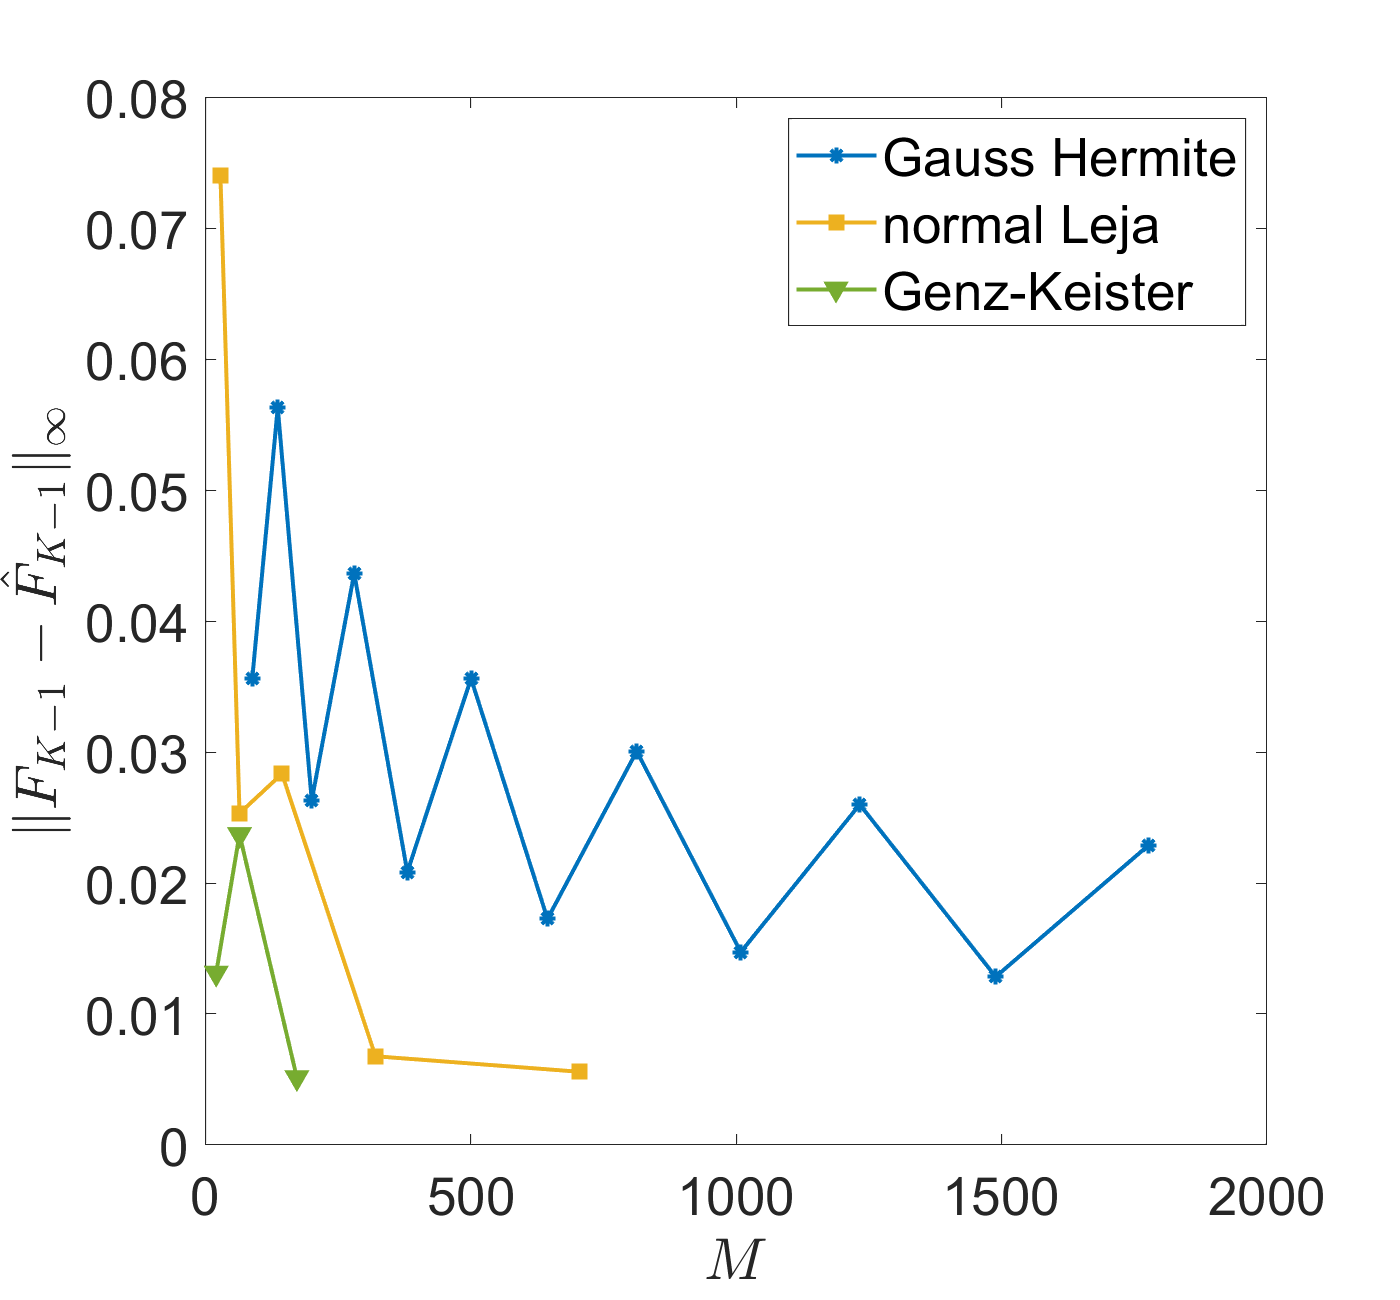
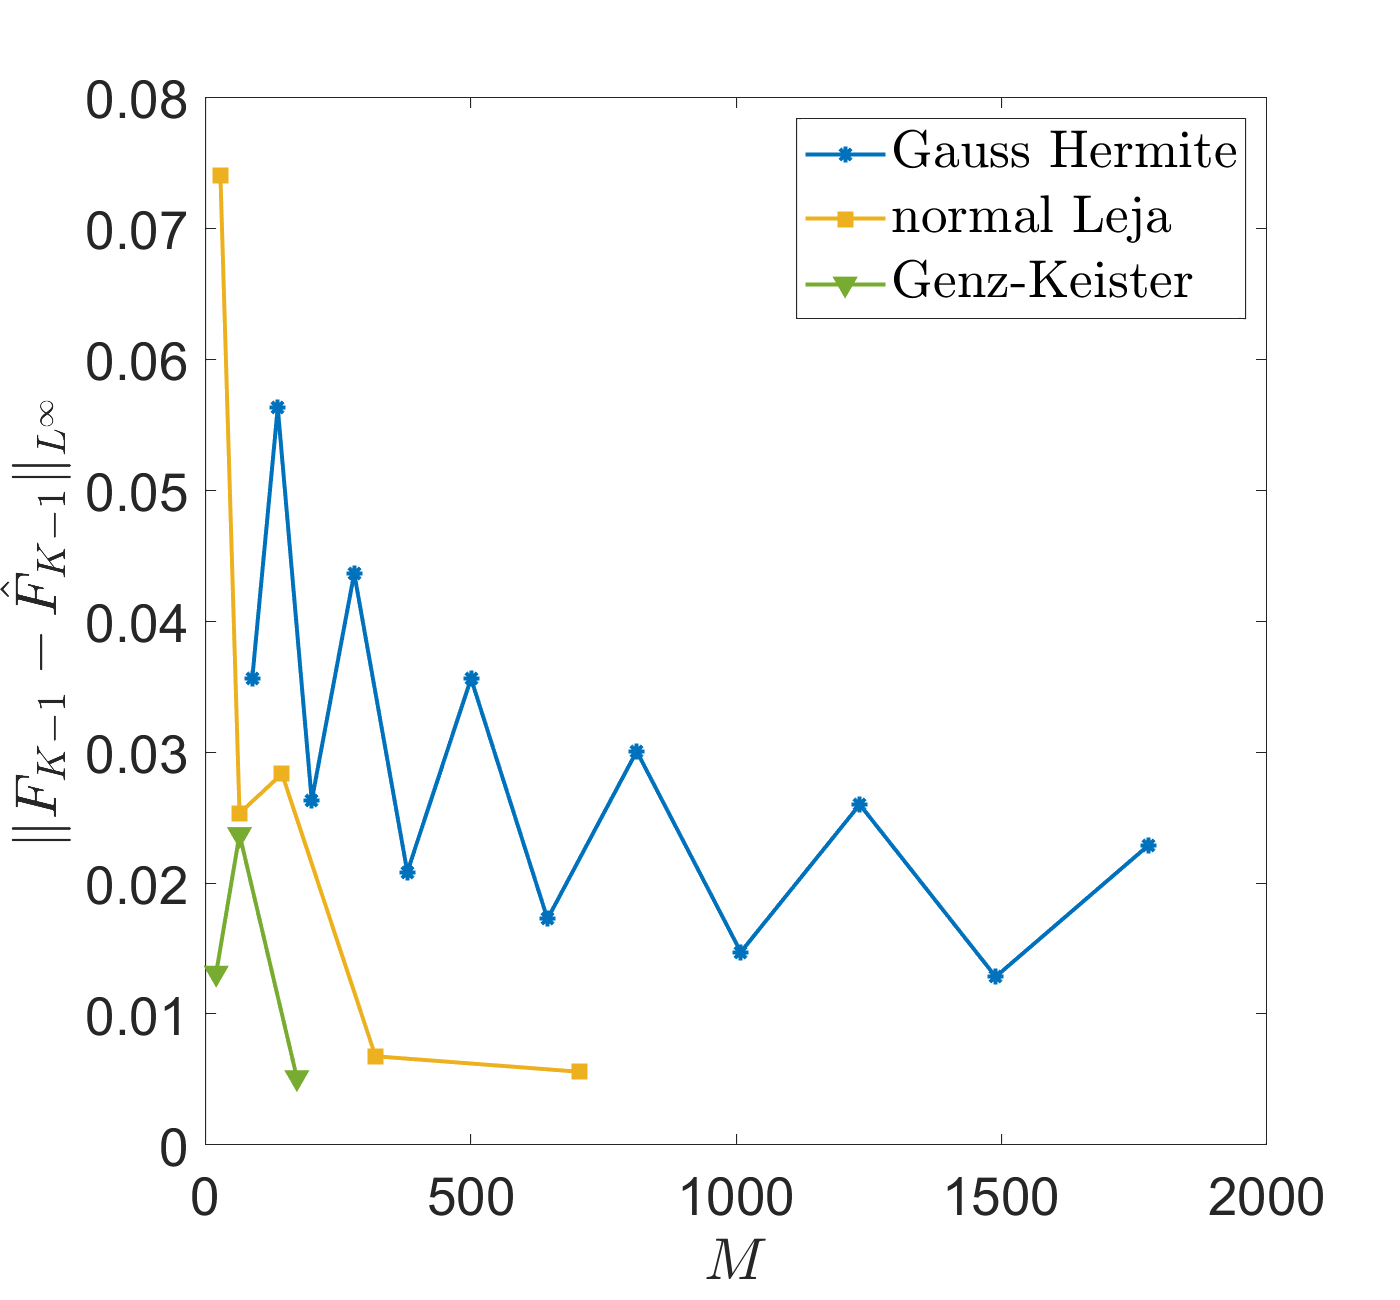
Add files via upload

Changed region(s): [[0.5529, 0.0923, 0.8907, 0.2462], [0.0, 0.3077, 0.0614, 0.4615], [0.0, 0.5231, 0.0614, 0.6462]]

diff --git a/figures/fig_sg_quad_2.m b/figures/fig_sg_quad_2.m
@@ -17,7 +17,7 @@ N_Q = [89   137   201   281   381   501   645   813   1009 ...
     1233   1489   1777];
 err2_Q = abs(V2_Q - ref(1))./ref(1);
 
-plot(N_Q, err2_Q,'DisplayName','Gauss Hermite, L^{interp} = 6',...
+plot(N_Q, err2_Q,'DisplayName','Gauss Hermite, L_I = 6',...
     'Color',colors{1}, 'Marker' ,markers{1},'markersize',ms,'MarkerFaceColor',colors{1},'MarkerEdgeColor',colors{1},'LineWidth',lw);
 xla = xlabel('$M$');
 set(xla,'Interpreter','latex');
@@ -32,7 +32,7 @@ V2_Q_i7 = [3.183578058863261   3.183065670172444   3.183869276533816...
 err2_Q_i7 = abs(V2_Q_i7 - ref(1))./ref(1);
 N_Q_i7 = [89   137   201   281   381   501   645   813   1009 ...
     1233   1489   1777];
-hold on; plot(N_Q_i7, err2_Q_i7,'DisplayName','Gauss Hermite, L^{interp} = 7',...
+hold on; plot(N_Q_i7, err2_Q_i7,'DisplayName','Gauss Hermite, L_I = 7',...
     'Color',colors{2}, 'Marker' ,markers{2},'markersize',ms,'MarkerFaceColor',colors{2},'MarkerEdgeColor',colors{2},'LineWidth',lw);
 
 %% quadrature convergence Leja
@@ -43,7 +43,7 @@ V2_leja = [3.176171640203659   3.181310682108717   3.181128592517177...
 N_Q_leja = [29    65   145   321   705];
 
 err2_leja = abs(V2_leja - ref(1))./ref(1);
-hold on; plot(N_Q_leja, err2_leja,'DisplayName','normal Leja, L^{interp} = 6',...
+hold on; plot(N_Q_leja, err2_leja,'DisplayName','normal Leja, L_I = 6',...
     'Color',colors{3}, 'Marker' ,markers{3},'markersize',ms,'MarkerFaceColor',colors{3},'MarkerEdgeColor',colors{3},'LineWidth',lw);
 
 % MaxDepth = 7;
@@ -52,7 +52,7 @@ V2_leja_i7 = [3.181890150281967   3.181462592589240   3.181294312739215 ...
 N_Q_leja_i7 = [29    65   145   321   705];
 
 err2_leja_i7 = abs(V2_leja_i7 - ref(1))./ref(1);
-hold on; plot(N_Q_leja_i7, err2_leja_i7,'DisplayName','normal Leja, L^{interp} = 7',...
+hold on; plot(N_Q_leja_i7, err2_leja_i7,'DisplayName','normal Leja, L_I = 7',...
     'Color',colors{4}, 'Marker' ,markers{4},'markersize',ms,'MarkerFaceColor',colors{4},'MarkerEdgeColor',colors{4},'LineWidth',lw);
 
 %% quadrature convergence GK
@@ -60,18 +60,23 @@ hold on; plot(N_Q_leja_i7, err2_leja_i7,'DisplayName','normal Leja, L^{interp} =
 V2_GK = [3.183642009824087   3.182175081482277   3.183899095187631];
 N_Q_GK = [21    65   173];
 err2_GK = abs(V2_GK - ref(1))./ref(1);
-hold on; plot(N_Q_GK, err2_GK,'DisplayName','Genz-Keister, L^{interp} = 6',...
+hold on; plot(N_Q_GK, err2_GK,'DisplayName','Genz-Keister, L_I = 6',...
     'Color',colors{5}, 'Marker' ,markers{5},'markersize',ms,'MarkerFaceColor',colors{5},'MarkerEdgeColor',colors{5},'LineWidth',lw);
-legend;
 
 % MaxDepth = 7;
 V2_GK_i7 = [3.181722588270920   3.181729395153899   3.183145582488626];
 N_Q_GK = [21    65   173];
 err2_GK_i7 = abs(V2_GK_i7 - ref(1))./ref(1);
-hold on; plot(N_Q_GK, err2_GK_i7, 'DisplayName','Genz-Keister, L^{interp} = 7',...
+hold on; plot(N_Q_GK, err2_GK_i7, 'DisplayName','Genz-Keister, L_I = 7',...
     'Color',colors{6}, 'Marker' ,markers{6},'markersize',ms,'MarkerFaceColor',colors{6},'MarkerEdgeColor',colors{6},'LineWidth',lw);
 legend('FontSize',20);
 box on;
 ax = gca;  ax.FontSize = 20; 
+
+leg1 = legend('Gauss Hermite, $L_I = 6$','Gauss Hermite, $L_I = 7$',...
+    'normal Leja, $L_I = 6$', 'normal Leja, $L_I = 7$', ...
+    'Genz-Keister, $L_I = 6$', 'Genz-Keister, $L_I = 7$');
+set(leg1,'Interpreter','latex');
+set(leg1,'FontSize',20);
 
 set(h, 'Position', [100 100 700 650]);

diff --git a/figures/fig_pts_interp_quad.m b/figures/fig_pts_interp_quad.m
@@ -67,7 +67,13 @@ scatter(zqknots_mat(1,:), zqknots_mat(2,:), [],colors{6},'.','DisplayName','quad
 hold on;
 scatter(zknots_in(1,:), zknots_in(2,:),[],'k',"filled",'DisplayName','interpolation');
 legend('Fontsize', 20);
-xlabel('z_1','FontSize', 20); ylabel('z_2','FontSize', 20);
+xla = xlabel('$z_1$');
+set(xla,'Interpreter','latex');
+set(xla,'FontSize',20);
+yla = ylabel('$z_2$');
+set(yla,'Interpreter','latex');
+set(yla,'FontSize',20);
+
 box on;
 ax = gca;  ax.FontSize = 20; 
 
@@ -76,7 +82,12 @@ scatter(Sqknots_mat(1,:), Sqknots_mat(2,:), [],colors{6},'.','DisplayName','quad
 hold on;
 scatter(Sknots_in(1,:), Sknots_in(2,:),[],'k',"filled",'DisplayName','interpolation');
 legend('Fontsize', 20);
-xlabel('S_1', 'FontSize', 20); ylabel('S_2', 'FontSize',20);
+xla = xlabel('$S_1$');
+set(xla,'Interpreter','latex');
+set(xla,'FontSize',20);
+yla = ylabel('$S_2$');
+set(yla,'Interpreter','latex');
+set(yla,'FontSize',20);
 box on;
 ax = gca;  ax.FontSize = 20; 
 

diff --git a/figures/fig_K.m b/figures/fig_K.m
@@ -18,17 +18,23 @@ h3 = figure(3);
 plot(10:5:105, err_i8,'DisplayName','L=2',...
      'Color',colors{1}, 'Marker' ,markers{1},'markersize',ms,'MarkerFaceColor',colors{1},'MarkerEdgeColor',colors{1},'LineWidth',lw);
 
-xlabel('K','FontSize',20);
+xla = xlabel('$K$');
+set(xla,'Interpreter','latex');
+set(xla,'FontSize',20);
 ylabel('relative error','FontSize',20);
-legend('FontSize',20);
+
 box on;
 ax = gca;  ax.FontSize = 20; 
 
 set(gca, 'YScale', 'log');
 set(gca, 'XScale', 'log');
-set(h3, 'Position', [100 100 700 650]);
 
 xref = 10.^(1:.1:2);
 yref = xref.^(-1)*exp(-4);
 hold on; plot(xref, yref, '--k', 'DisplayName','slope = -1');
 
+leg1 = legend('$L_I = 8, \beta = 1, L=2$','slope = -1');
+set(leg1,'Interpreter','latex');
+set(leg1,'FontSize',20);
+
+set(h3, 'Position', [100 100 700 650]);

diff --git a/figures/fig_rqmc_preint.m b/figures/fig_rqmc_preint.m
@@ -66,8 +66,17 @@ hold on;
 plot(log2(M(1:end)), rmse_rel_preint(1:end), 'DisplayName','RQMC with preintegration',...
      'Color',colors{2}, 'Marker' ,markers{2},'markersize',ms,'MarkerFaceColor',colors{2},'MarkerEdgeColor',colors{2},'LineWidth',lw);
 set(gca, 'YScale', 'log');
-xlabel('log2(M)','FontSize',20); ylabel('RMSE','FontSize',20);
-legend('FontSize',20);
+
+xla = xlabel('$\log_2(M)$');
+set(xla,'Interpreter','latex');
+set(xla,'FontSize',20);
+yla = ylabel('RMSE');
+set(yla,'Interpreter','latex');
+set(yla,'FontSize',20);
+
+leg1 = legend('RQMC','RQMC with preintegration');
+set(leg1,'Interpreter','latex');
+set(leg1,'FontSize',20);
 box on;
 % title('The root mean square error for pricing a 5d American option');
 set(h1, 'Position', [100 100 700 650]);

diff --git a/figures/fig_beta.m b/figures/fig_beta.m
@@ -24,9 +24,15 @@ for i=1:5
         'Color',colors{i}, 'Marker' ,markers{i},'markersize',ms,'MarkerFaceColor',colors{i},'MarkerEdgeColor',colors{i},'LineWidth',lw);
 end
 set(gca, 'YScale', 'log');
-legend('FontSize',20,'Location','southwest');
-xlabel('interpolation level','FontSize',20);
+leg1 = legend('$\beta = 1$','$\beta = 2$','$\beta = 3$','$\beta = 4$','$\beta = 5$');
+set(leg1,'Interpreter','latex');
+set(leg1,'FontSize',20);
+
+xla = xlabel('interpolation level $L_I$');
+set(xla,'Interpreter','latex');
+set(xla,'FontSize',20);
 ylabel('relative error', 'FontSize',20);
+
 box on;
 ax = gca;  ax.FontSize = 20; 
 set(h1, 'Position', [100 100 700 650]);

diff --git a/figures/fig_sg_quad_1.m b/figures/fig_sg_quad_1.m
@@ -36,10 +36,13 @@ plot(nb_quad_GK, maxerror_GK,'Color',colors{5}, 'Marker' ,markers{5},...
 xla = xlabel('$M$');
 set(xla,'Interpreter','latex');
 set(xla,'FontSize',20);
-yla = ylabel('$\|F_{K-1} - \hat{F}_{K-1}\|_\infty$');
+yla = ylabel('$\|F_{K-1} - \hat{F}_{K-1}\|_{L^\infty}$');
 set(yla,'Interpreter','latex');
 set(yla,'FontSize',20);
-legend('FontSize',20);
+
+leg1 = legend('Gauss Hermite','normal Leja','Genz-Keister');
+set(leg1,'Interpreter','latex');
+set(leg1,'FontSize',20);
 box on;
 ax = gca;  ax.FontSize = 20; 
 

diff --git a/figures/fig_convergence.m b/figures/fig_convergence.m
@@ -110,11 +110,15 @@ for i = [1,2,4,6,8,10]
 end
 set(gca, 'YScale', 'log');
 set(gca, 'XScale', 'log');
-legend('Fontsize', 20);
+
 xla = xlabel('$N$');
 set(xla,'Interpreter','latex');
 set(xla,'FontSize',20);
 ylabel('relative error','Fontsize', 20);
+leg1 = legend('$d=2$','$d=3$','$d=5$','$d=7$','$d=9$','$d=11$');
+set(leg1,'Interpreter','latex');
+set(leg1,'FontSize',20);
+
 box on;
 ax = gca;  ax.FontSize = 20; 
 

diff --git a/figures/fig_L.m b/figures/fig_L.m
@@ -19,7 +19,9 @@ err = abs(price - ref)./ref;
 h1 = figure(1);
 plot(L,err,...
     'Color',colors{1}, 'Marker' ,markers{1},'markersize',ms,'MarkerFaceColor',colors{1},'MarkerEdgeColor',colors{1},'LineWidth',lw);
-xlabel('L','FontSize',20);
+xla = xlabel('$L$');
+set(xla,'Interpreter','latex');
+set(xla,'FontSize',20);
 ylabel('relative error','FontSize',20);
 box on;
 ax = gca;  ax.FontSize = 20; 

diff --git a/figures/fig_number_inner_grids.m b/figures/fig_number_inner_grids.m
@@ -17,7 +17,9 @@ hold on; plot(d', N', 'Color',colors{3}, 'Marker',markers{3},'markersize',ms,'Ma
 
 set(gca, 'YScale', 'log');
 set(gca, 'XScale', 'log');
-xlabel('d','Fontsize', 20); 
+xla = xlabel('$d$');
+set(xla,'Interpreter','latex');
+set(xla,'FontSize',20);
 % ylabel('The number of points','Fontsize', 12);
 box on;
 ax = gca;  ax.FontSize = 20; 
